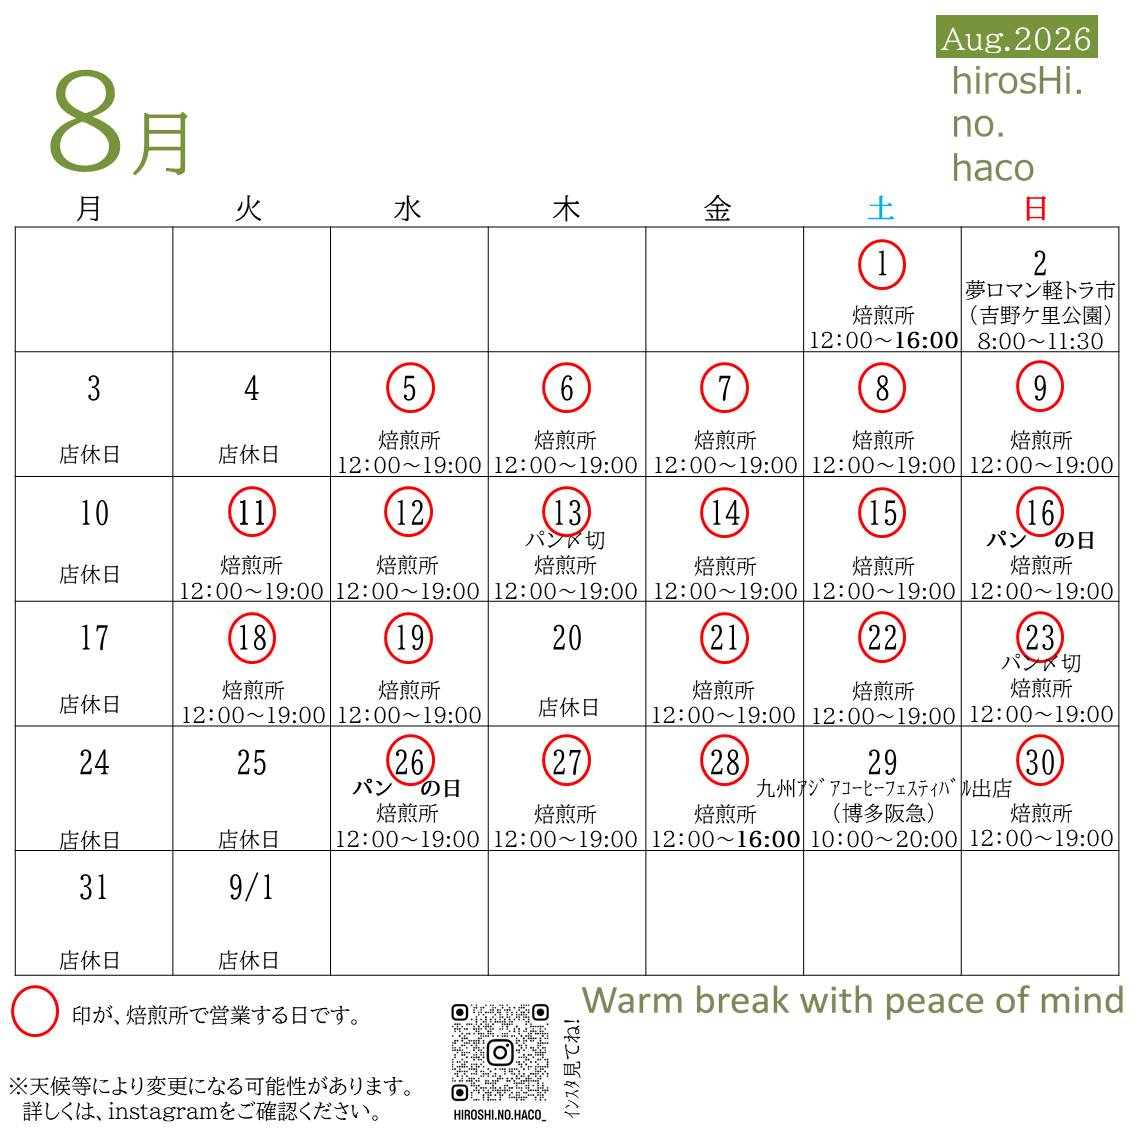
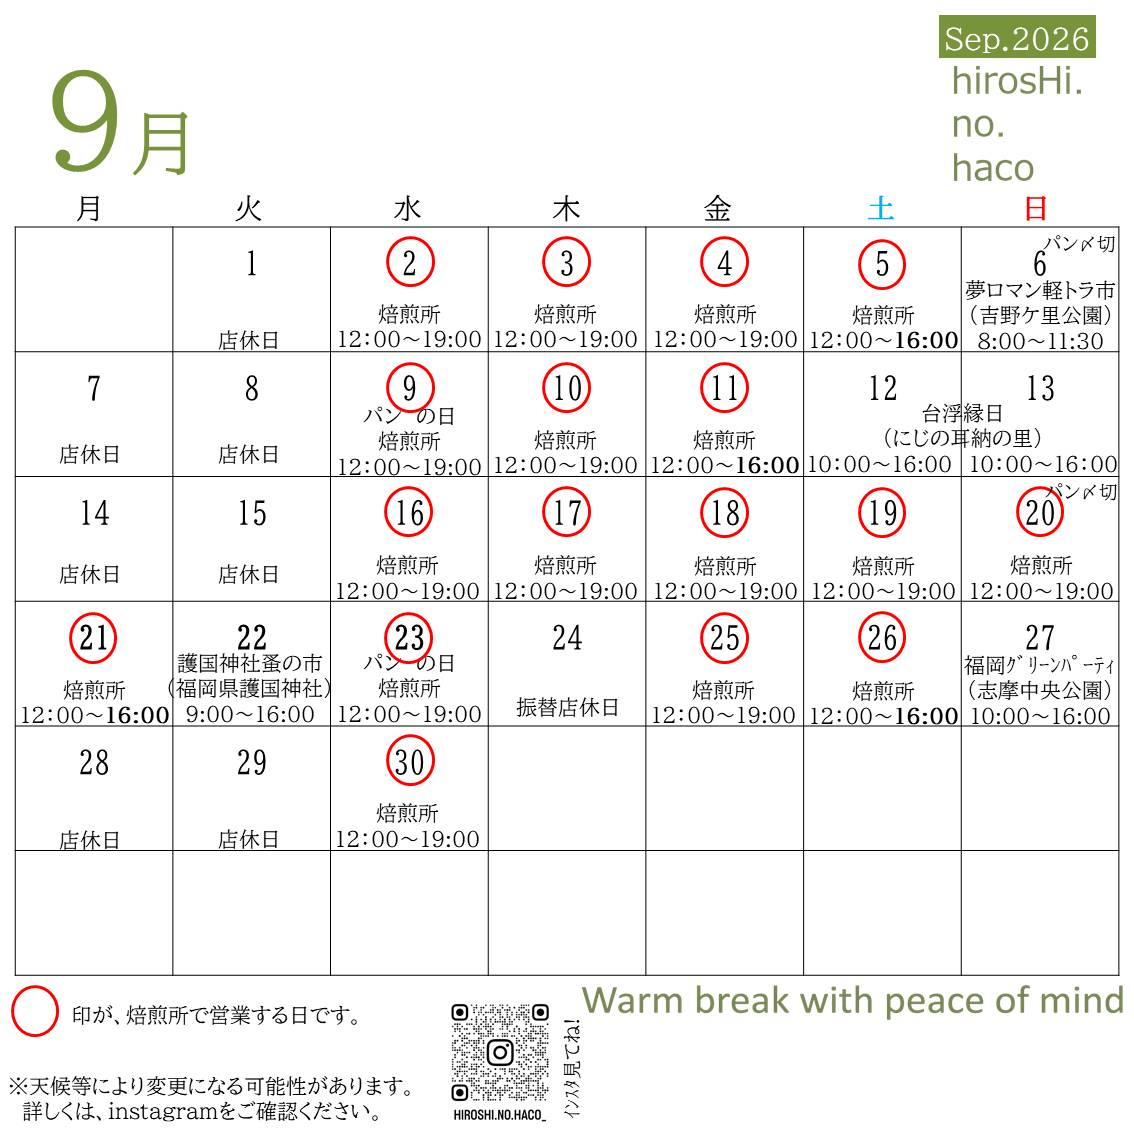
スケジュールを2026年9月版に更新
- 予定表画像を9月版に差し替え
- 週次デフォルトの営業時間を焙煎所営業(12:00-19:00)に変更
- 9月の営業日・イベント出店・臨時休業を登録

diff --git a/src/data/schedule.ts b/src/data/schedule.ts
@@ -29,13 +29,13 @@ export type DayStatus = {
 };
 
 const defaultStatusByDay: Record<number, DayStatus> = {
-  0: { isOpen: true,  hours: "9:30-17:00" }, // 日
-  1: { isOpen: false },                         // 月
-  2: { isOpen: false },                         // 火
-  3: { isOpen: true,  hours: "9:30-17:00" }, // 水
-  4: { isOpen: true,  hours: "9:30-17:00" }, // 木
-  5: { isOpen: true,  hours: "9:30-17:00" }, // 金
-  6: { isOpen: true,  hours: "9:30-17:00" }, // 土
+  0: { isOpen: true,  hours: "12:00-19:00" }, // 日
+  1: { isOpen: false },                          // 月
+  2: { isOpen: false },                          // 火
+  3: { isOpen: true,  hours: "12:00-19:00" }, // 水
+  4: { isOpen: true,  hours: "12:00-19:00" }, // 木
+  5: { isOpen: true,  hours: "12:00-19:00" }, // 金
+  6: { isOpen: true,  hours: "12:00-19:00" }, // 土
 };
 
 const schedule: Record<string, DayStatus> = {
@@ -76,7 +76,20 @@ const schedule: Record<string, DayStatus> = {
   "2026-08-31": { isOpen: false },
 
   // ── 2026年9月 ──────────────────────────────────
-  "2026-09-01": { isOpen: false },
+  "2026-09-02": { isOpen: true,  hours: "12:00-19:00" },
+  "2026-09-05": { isOpen: true,  hours: "12:00-16:00" },
+  "2026-09-06": { isOpen: true,  hours: "8:00-11:30", isEvent: true, eventName: "夢ロマン軽トラ市", eventLocation: "吉野ケ里公園", note: "パン〆切" },
+  "2026-09-09": { isOpen: true,  hours: "12:00-19:00", note: "パンの日" },
+  "2026-09-11": { isOpen: true,  hours: "12:00-16:00" },
+  "2026-09-12": { isOpen: true,  hours: "10:00-16:00", isEvent: true, eventName: "台浮縁日", eventLocation: "にじの耳納の里" },
+  "2026-09-13": { isOpen: true,  hours: "10:00-16:00", isEvent: true, eventName: "台浮縁日", eventLocation: "にじの耳納の里" },
+  "2026-09-20": { isOpen: true,  hours: "12:00-19:00", note: "パン〆切" },
+  "2026-09-21": { isOpen: true,  hours: "12:00-16:00" },
+  "2026-09-22": { isOpen: true,  hours: "9:00-16:00", isEvent: true, eventName: "護国神社蚤の市", eventLocation: "福岡県護国神社" },
+  "2026-09-23": { isOpen: true,  hours: "12:00-19:00", note: "パンの日" },
+  "2026-09-24": { isOpen: false, note: "振替店休日" },
+  "2026-09-26": { isOpen: true,  hours: "12:00-16:00" },
+  "2026-09-27": { isOpen: true,  hours: "10:00-16:00", isEvent: true, eventName: "福岡グリーンパーティ", eventLocation: "志摩中央公園" },
 };
 
 function formatDateKey(date: Date): string {
